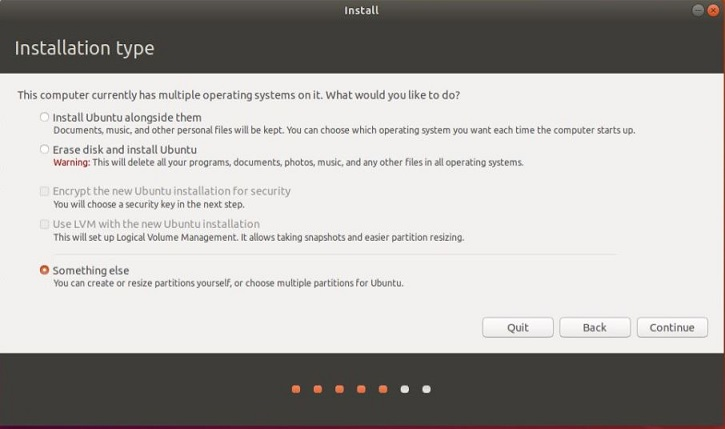
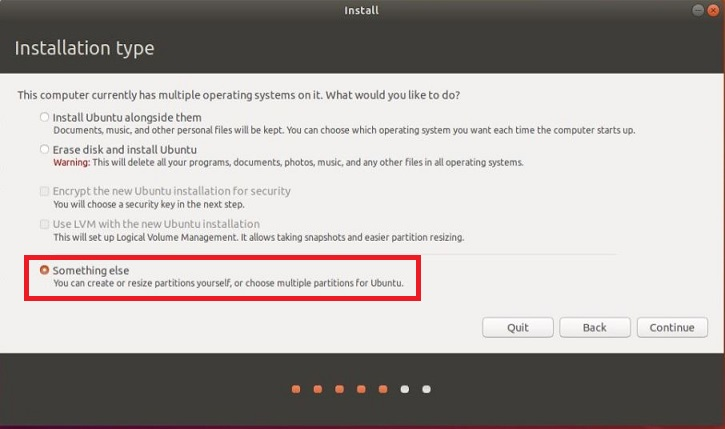
update Ubuntu

Changed region(s): [[0.0303, 0.5758, 0.6069, 0.7273]]

diff --git a/guide/Ubuntu-Python-CPP(Chinese).md b/guide/Ubuntu-Python-CPP(Chinese).md
@@ -2,29 +2,36 @@
 
 在已安装Windows系统的电脑上，安装Ubuntu系统的过程简介
    
-## Windows环境硬盘空间要求
+## 一、 准备安装Ubuntu系统需要的空闲硬盘空间
 
-安装前，在Windows环境下，从空余的硬盘空间中划出一个空的独立分区，给Ubuntu使用。
+在Windows环境下，从`空余`的硬盘空间中划出一个`空的独立分区`，给Ubuntu使用。
 
 为了学习工作方便，建议空间稍大些，如：50G
 
 ![hard disk partition](./img/hard-disk-partition.jpg)
 
-## 安装Ubuntu
+## 二、 准备Ubuntu安装U盘
 
-从Ubuntu官网下载Ubuntn 18.04 LTS的iso文件
+* 从Ubuntu官网下载Ubuntn 18.04 LTS的iso文件
 
-https://www.ubuntu.com/download/desktop
+   https://www.ubuntu.com/download/desktop
 
-BitTorrent enables higher download speeds and more reliable downloads of large files.
+   BitTorrent enables higher download speeds and more reliable downloads of large files.
 
-http://releases.ubuntu.com/18.04/ubuntu-18.04-desktop-amd64.iso.torrent
+   http://releases.ubuntu.com/18.04/ubuntu-18.04-desktop-amd64.iso.torrent
 
-从 http://rufus.akeo.ie/  下载rufus，制作U盘安装系统
+* 从 http://rufus.akeo.ie/  下载rufus，制作安装系统用U盘，然后，用U盘安装双系统
 
-然后，用U盘安装双系统。网络上有很多安装过程的介绍文档，可参考
+>可选Ubuntu系统
+>
+>Ubuntu发行版很多，建议**新手**使用
+>
+>* 1 “中国味”的UbuntuKylin: http://www.ubuntukylin.com/.  UbuntuKylin默认安装中文支持：预安装有WPS，搜狗拼音输入法等
+> * 2 Linux Mint：https://www.linuxmint.com/。Linux Mint易用性高。但是英文系统系统安装后，需要补充安装中文包及其输入法(如：搜狗输入法)。Linux Mint有多个不同桌面环境的版本，如果电脑性能弱，建议是Linux Mint Xfce版。
 
-## 安装要点
+## 三、 安装Ubuntu
+
+安装的详细过程可参考网络上的文档。下面给出需要注意的要点。
 
 * 1 Welcome界面：选择语言 **English**
 
@@ -34,71 +41,51 @@ http://releases.ubuntu.com/18.04/ubuntu-18.04-desktop-amd64.iso.torrent
 
 ![bionic-updates](./img/bionic-updates.jpg)
 
-* 4 Installation type界面: 选择 **something else**
+* **4 Installation type界面: 选择 `something else` (关键项目：安装类型一定选择为`something else`)**
 
 ![bionic-type](./img/bionic-type.jpg)
 
-   * 自定义系统分区和挂载点，简单可靠的方式如下：
-       * **/home**： home挂载点和分区：从空闲空间中划分出一个“logic”分区， 作为 /home 挂载点
-         * **注意**: 
-           * 是 **“logic”** 分区，因为一个硬盘可划分的主分区数量有限；
-           * 一定要有**home**挂载点和分区。如重新安装ubuntu， 仍将这个分区挂载在home下，不要格式化该分区，原来系统中的用户文件都能保留 
-       * **/**： 系统挂载点和分区：将余下空闲空间都划 “/” 分区，作为系统挂载点。 如果重新安装其他版本Liunx，将这个分区格式化.
-  * 分好区后，点安装
+然后，在 **`空闲空间`** 中定义`/home挂载点和分区`和`/系统分区和挂载点`点.(注意：一定要确定使用的是`空闲空间`，不要破坏Windows系统及其用户使用的空间）.
+
+* **/home**： home挂载点和分区：从**空闲空间**中划分出一个“logic”分区， 作为 /home 挂载点
+  * **注意**: 
+    * 是 **“logic”** 分区，因为一个硬盘可划分的主分区数量有限；
+    * 一定要有**home**挂载点和分区。如重新安装ubuntu， 仍将这个分区挂载在home下，不要格式化该分区，原来系统中的用户文件都能保留 
+
+* **/**： 系统挂载点和分区：将余下空闲空间都划 “/” 分区，作为系统挂载点。 如果重新安装其他版本Liunx，将这个分区格式化.
 
 ![bionic-part-all](./img/bionic-part-home.jpg)
 
 ![bionic-part-all](./img/bionic-part-all.jpg)
 
 ![bionic-part-all](./img/bionic-parts.jpg)
-  
+
+
+定义挂载点和分好区，点`安装`前,再次确认使用的是`空闲空间`，不要破坏Windows系统及其用户使用的空间。
+
+确认无误后，点`安装`,进入以下步骤：
+
 * 5 Where are you:选择时区为 **shanghai**
 
 * 6 Who are you: 用户名和密码，选择自动登录
 
-   * 如重装系统且要使用 **原home分区**, 建议用**原用户名**
+   * 如是重装Ubuntu系统且要使用 **`原home`分区**, 用 **`原用户名`**
 
 ![bionic-ok](./img/bionic-ok.jpg)
 
-## 可选系统安装方案：安装Ubuntu到U盘
+## 四、建立开发环境
 
-安装Ubuntu到U盘的步骤和安装到计算机硬盘分区一样
-
-不同的只是安装 **“位置”**：1）选择U盘为boot loader设备； 2）Ubuntu各分区挂载到U盘
-
-**建议：** 1) 使用高品质的USB3.0 U盘；盘容量较大; 2) 建一个FAT32文件系统分区，用于兼容Windows.
-
- 可查询参考网络上的相关资源。
-
-## 可选Ubuntu系统
-
-Ubuntu发行版很多，建议**新手**使用
-
-### 1 “中国味”的UbuntuKylin 18.04 LTS版
-
-UbuntuKylin官网 http://www.ubuntukylin.com/ 
-
-默认安装中文支持：WPS，搜狗拼音输入法等
-
-### 2 Linux Mint Xfce
-
-Linux Mint官网 https://www.linuxmint.com/
-
-易用，系统相应速度更快，适用于硬件性能较弱的计算机。
-
-系统安装后，需要补充安装中文包及其输入法(如：搜狗输入法)
-
-## Version Control: Git
+### 1 Version Control: Git
 
 ```bash 
 $sudo apt install git
 ```
 
-##  C/C++ With GCC
+### 2 C/C++ With GCC
 
-    Ubuntu系统内置GCC编译器，无需安装
+Ubuntu系统内置GCC编译器，无需安装
 
-## Python3开发环境
+### 3 Python3开发环境
 
 Ubuntu 18.04 LTS系统中,默认Python3.但不完整，需补充: pip3、idle3。
 
@@ -108,11 +95,6 @@ $sudo apt install python3-pip
 $sudo -H python3 -m  pip install  --upgrade pip 
 $sudo apt install idle3
 ```
-
-如安装过程中失败，根据提示如下安装补充依赖项目
-```bash
-$sudo apt-get -f install
-```
 Python3相关命令都加3，如：
 
 ```bash
@@ -120,24 +102,18 @@ $python3
 $idle3
 $pip3
 ```
-### 安装scipy
+### 4 安装scipy
 
 apt在线安装
 ```bash
 $sudo apt install python3-numpy python3-scipy python3-matplotlib
 ```
-### 安装Jupyter
-
-```bash
-$sudo -H pip3 install jupyter
-```
-the high-speed installation
+### 5 安装Jupyter
 
 ```bash
 $sudo -H pip3 install jupyter -i  https://pypi.tuna.tsinghua.edu.cn/simple
 ```
-
-### 安装IAPWS-IF97
+### 6 安装IAPWS-IF97
 
 #### SEUIF97
 
@@ -149,9 +125,9 @@ $sudo -H python3 -m pip install seuif97
 ```bash
 $sudo -H pip3 install iapws
 ```
-## Visual Studio Code开发环境
+### 7 Visual Studio Code开发环境
 
-### 1 Visual Studio Code
+#### 1 安装Visual Studio Code
 
 From   https://code.visualstudio.com/docs/?dv=linux64_deb  download VS Code for Debian,Ubuntu
 
@@ -159,22 +135,24 @@ From   https://code.visualstudio.com/docs/?dv=linux64_deb  download VS Code for 
 $sudo dpkg -i [vscode filename].deb
 ```
 
-### 2 Install Python Extension in  Visual Studio Code
+#### 2 安装插件
+
+Install Python Extension in  Visual Studio Code
 
 * https://code.visualstudio.com/docs/languages/python
 
-### 3 Install the Microsoft C/C++ extension
+Install the Microsoft C/C++ extension
 
 * https://code.visualstudio.com/docs/languages/cpp
 
-### 4 set Python3 as the default Python Version
+#### 4 set Python3 as the default Python Version
 
 ```json
 // Path to Python, you can use a custom version of Python by modifying this setting to include the full path.
   "python.pythonPath": "python3",
 ```
 
-### 科学计算包gsl
+### 8 科学计算包GSL
 
 ```bash
 $sudo apt install gsl-bin
@@ -182,15 +160,15 @@ $sudo apt install gsl-bin
 $sudo apt install libgsl-dev
 
 ```
-### 数据可视化包Gnuplot
+### 9 数据可视化包Gnuplot
 
 ```bash
 $sudo apt install gnuplot
- ```
+```
 
-## 英文版Ubuntu补充中文支持
+## 六、英文版Ubuntu补充中文支持)
 
-> **Note:** 不同版本ubuntu的安装过程不同，可上网查询。
+> **Note:** 以下方法适用于Xubunt的。不同版本ubuntu差别，可上网查询方法。
 
 ### 1 安装中文语言支持包
 
@@ -201,11 +179,13 @@ $sudo apt install gnuplot
 >System->language support，选择和安装需要的语言包：English和Chinese，
 > 
 
-### 2  安装软件后,退出当前登录(logout)，然后再登入,选择keyboard input methods system默认输入法系统fcitx：setting->language support选择：fcitx
+### 2 选择fcitx
+
+安装软件后,退出当前登录(logout)，然后再登入,选择`keyboard input methods system`默认输入法系统`fcitx：setting->language support`,选择：`fcitx`
 
 ### 3 安装搜狗拼音输入法
 
-从官网下载最新版的搜狗拼音输入法，安装
+从搜狗官网下载最新版的搜狗拼音输入法，安装
 
 ```bash
 $sudo dpkg -i [sogoupinyinfilename].deb
@@ -218,11 +198,21 @@ $sudo apt-get -f install
 
 安装搜狗拼音输入法,退出当前登录(logout)，然后再登入（login)，就可以使用搜狗拼音输入法了
 
-查看和配置系统的输入法： setting->fcitx configuration
+查看和配置系统的输入法： `setting->fcitx configuration`
 
 ### 5 中英文输入法切换
 
 ctrl+space bar
+
+## 七、安装Ubuntu系统到U盘
+
+Ubuntu可以和安装到计算机硬盘一样，安装到U盘，成为便携的Ubuntu操作系统。
+
+其安装步骤和安装到计算机硬盘分区一样，不同的是安装 **`“位置”`** 参数：
+
+*  Ubuntu各分区挂载到U盘；U盘为`boot loader`设备；
+
+**建议：** 1) 使用高品质的USB3.0 U盘；盘容量较大(>=32G); 2) 在U盘上建一个FAT32文件系统分区，用于兼容Windows文件。
 
 ## Reference
 
